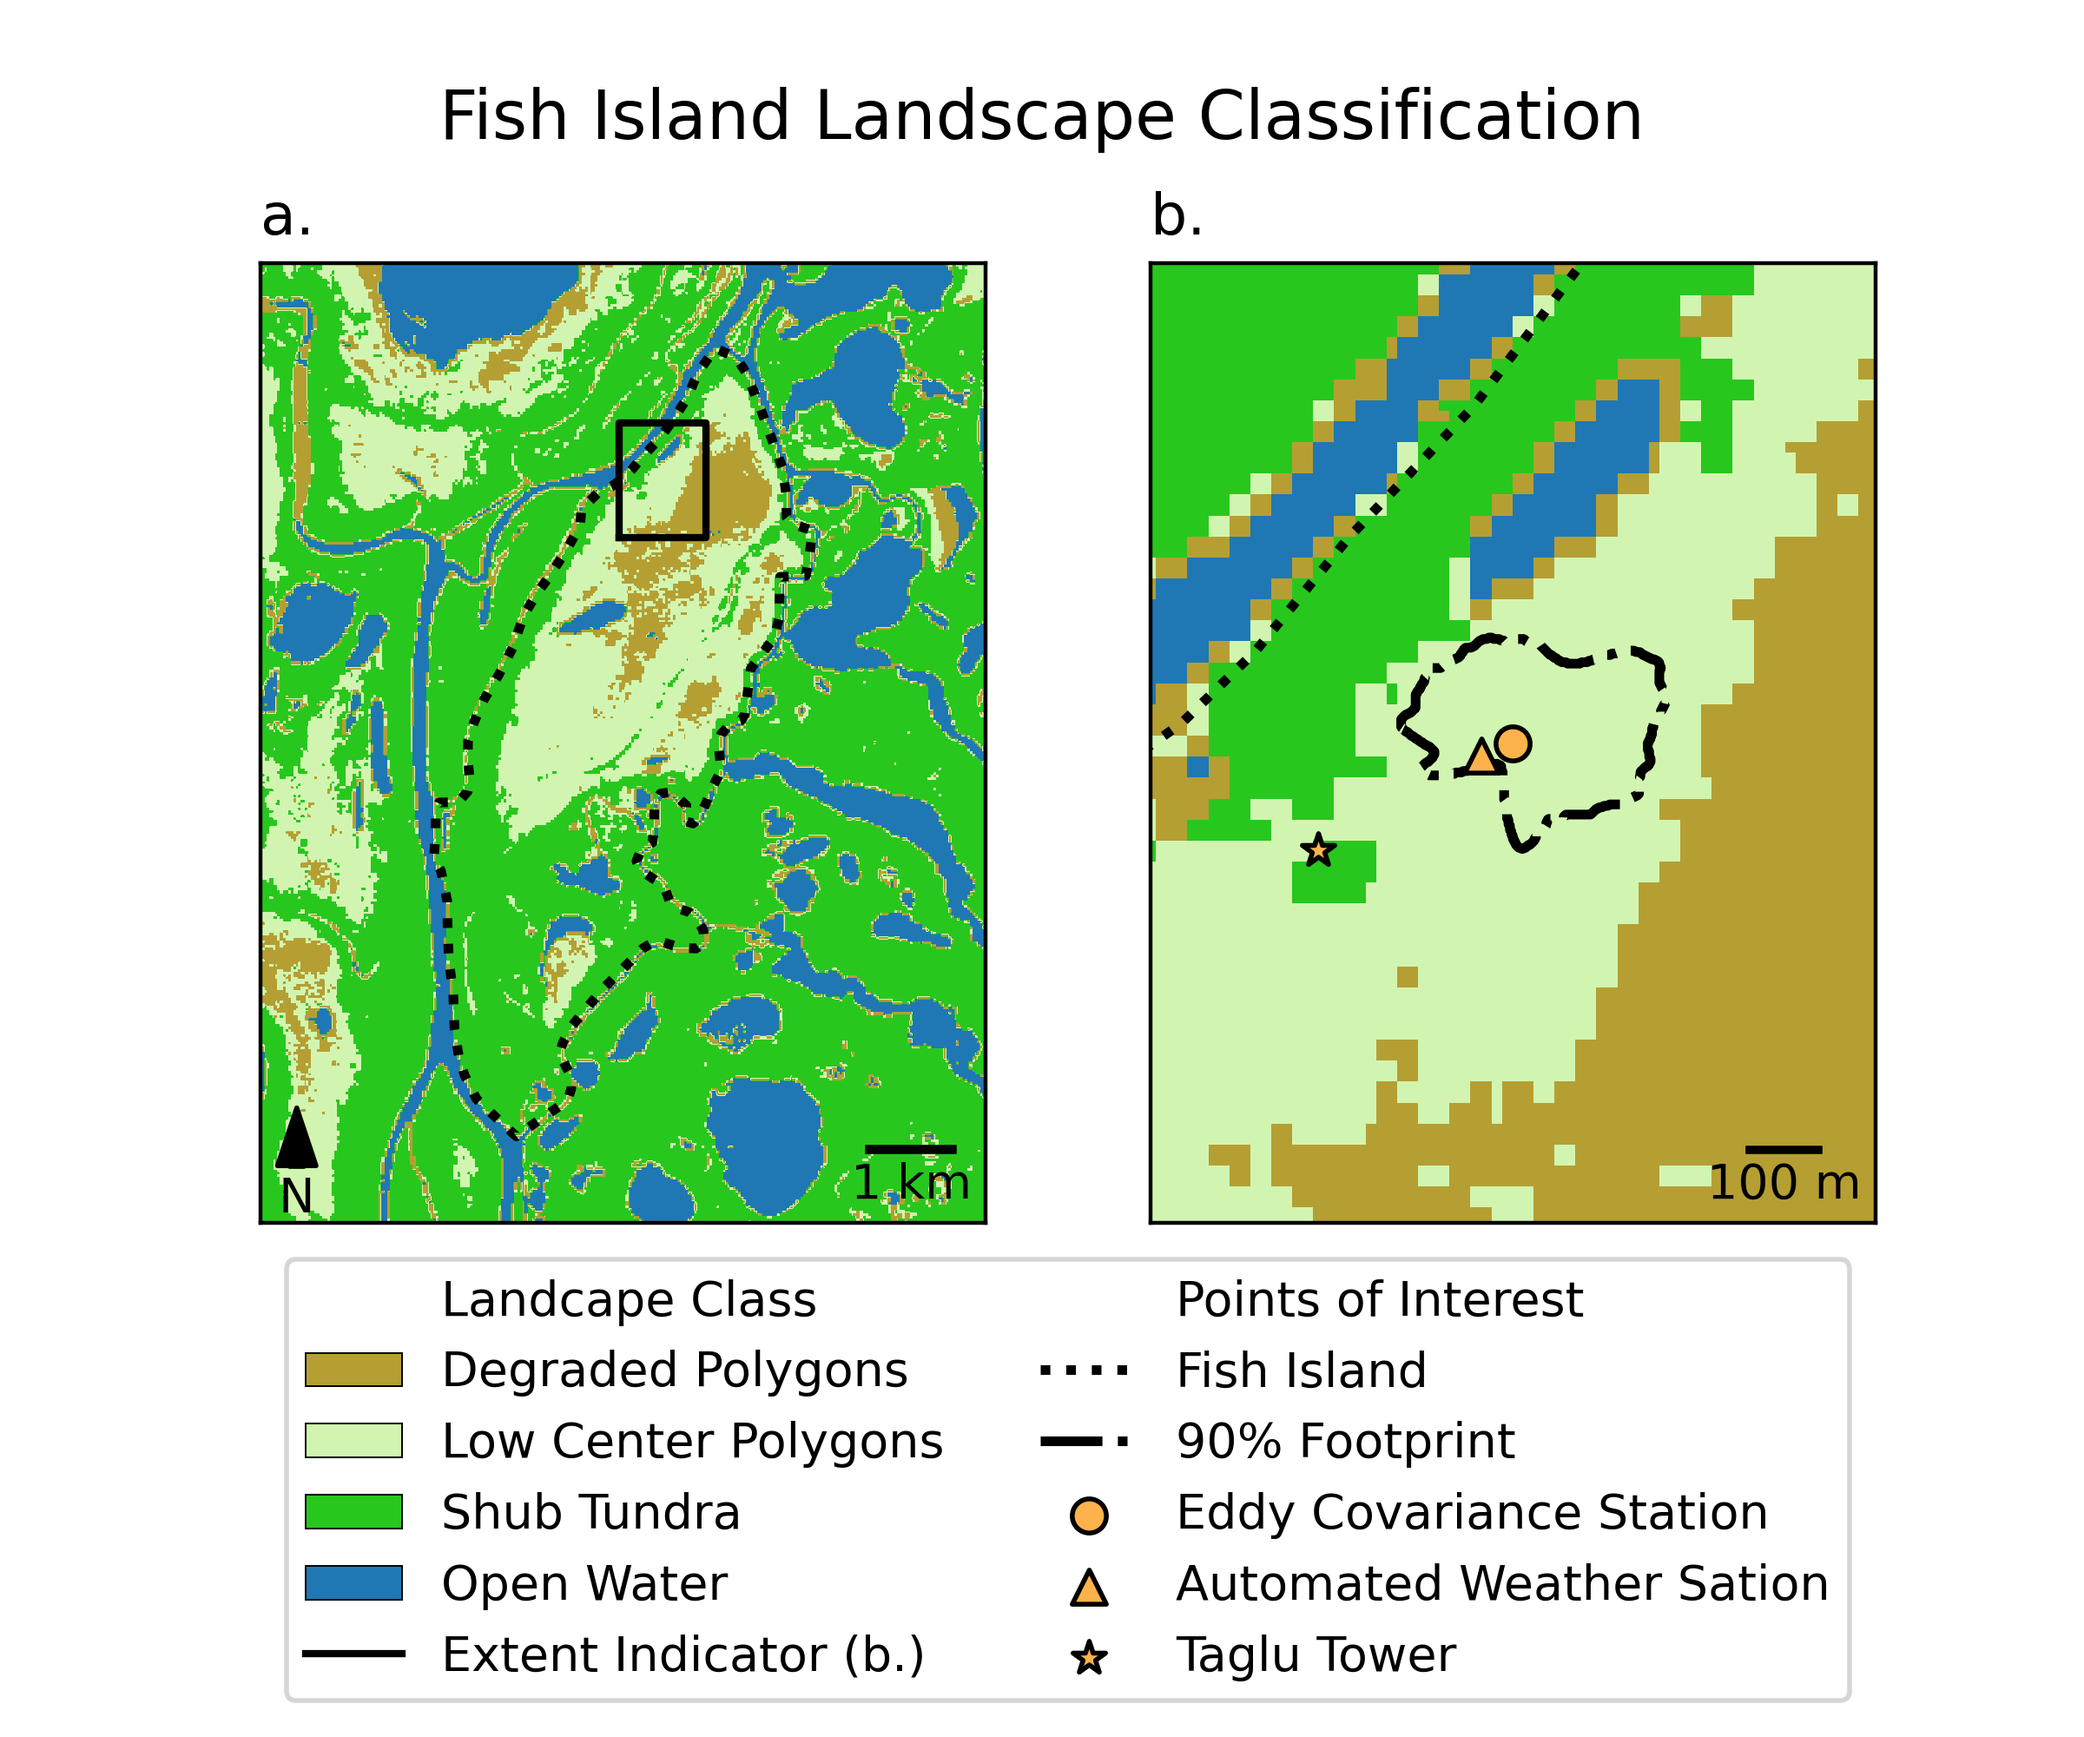
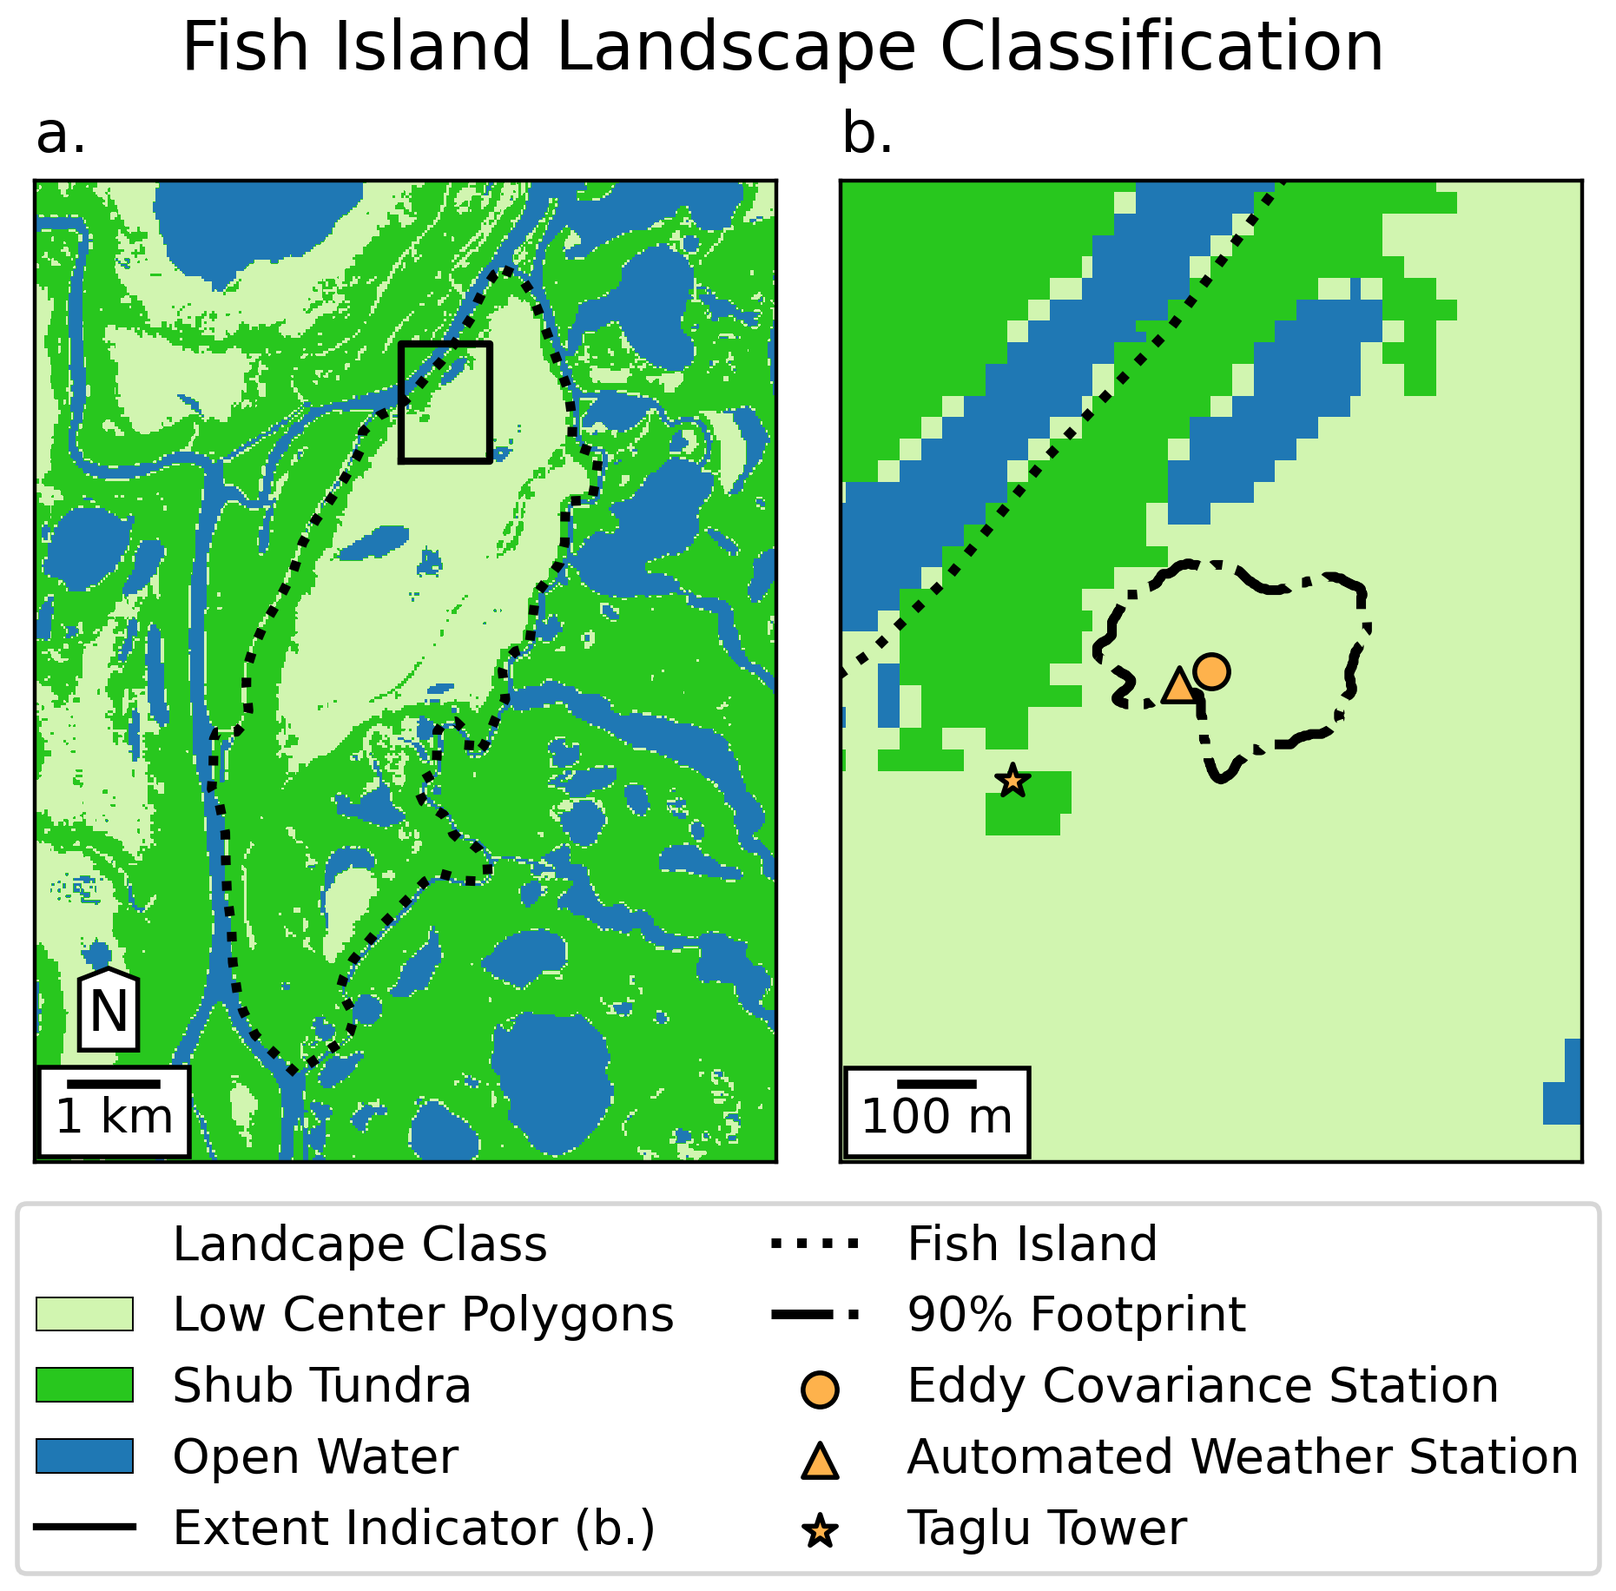
updates

diff --git a/docs/content/Classification.html b/docs/content/Classification.html
@@ -603,7 +603,7 @@ ul {
           <h2>Landscape Classification</h2>
             <p>
             <ul>
-            <li><b>Training classes</b>: four different ecosystems.</li>
+            <li><b>Training classes</b>: different ecosystems.</li>
             <li><i>Training data</i>: time series of peak NDVI.</li>
             <li>Random forest (100 trees)</li>
             <ul>

diff --git a/docs/content/Visualization.html b/docs/content/Visualization.html
@@ -195,7 +195,7 @@
             </p>
           </div>
           <div class="right" style="text-align: left;">
-            <img src="images/Better_map.png">
+            <img src="images/Fig1.png">
           </div>
         </div>
       </section>

diff --git a/docs/Content.md b/docs/Content.md
@@ -9,6 +9,10 @@ nav_order: 2
 
 Data classification and visualization are important because:
 
-* We use these methods to parse data and find patterns.
-* They are essential for conveying our results to others effectively.
-	* Analysis is meaningless if you are the only one who understands it.
+**1**{: .label .label-blue } We use classification methods find patterns in a dataset.
+* On their own, many datasets are to complex to interpret directly.  We often need to simplify our data by aggregating it into classes (groups).
+* This helps us find patterns in our data **and** helps us convey those patterns to others.
+
+**2**{: .label .label-blue } Data visualization is essential for conveying our results to others effectively.
+* Your analysis is meaningless if you are the only one who understands it.
+* We have to be able to share our analyses with others in a concise and organized way.
